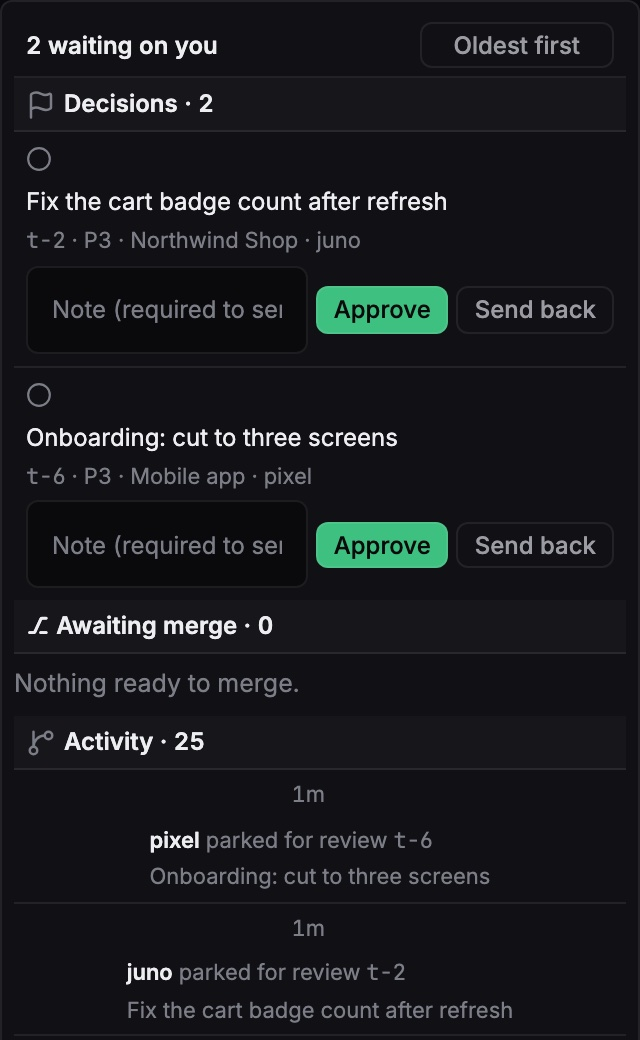
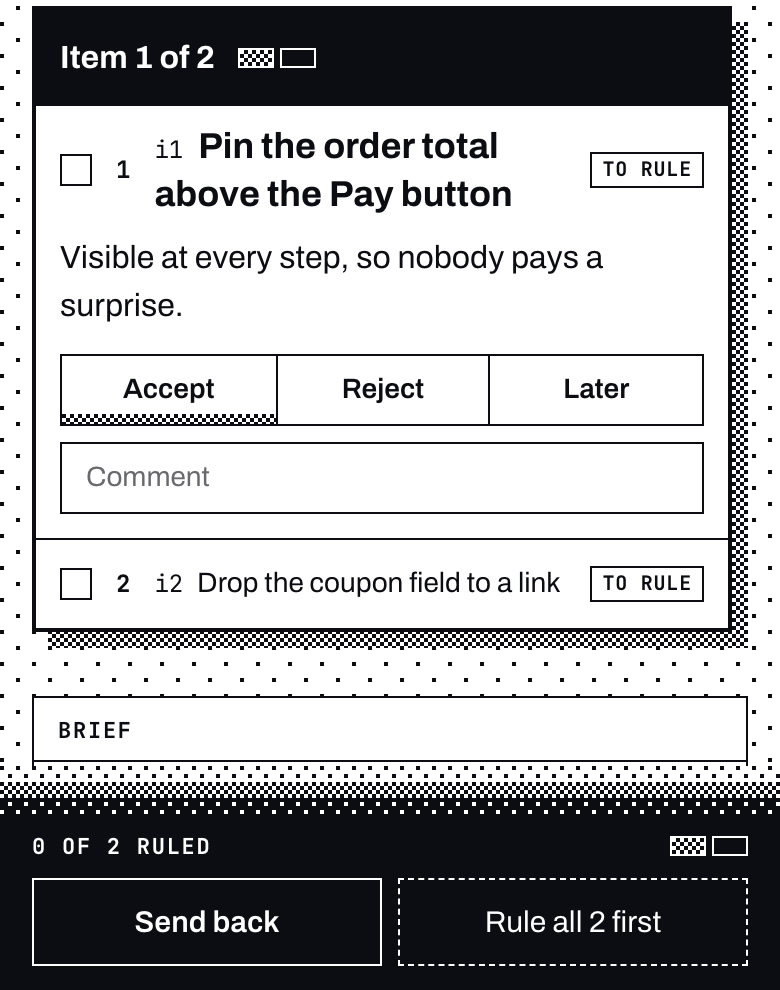
The office starts grey and Settings picks its palette; the README shows the new dashboard
The office defaults to pocket grey. Settings, Appearance gains Office palette (Grey, Olive, Green, Amber) on the office's own key, and an open office follows the change at once. P in the office still cycles.

The Desk's team list read roles from capabilities; it reads the roles set in Settings now, like the Agents page.

README: the Desk in light and dark, a mission in review and the review on a phone, shot on a demo hub, in place of the old board. docs/design.md describes hover on dither and the type as it is.

diff --git a/hub/public/app/desk/team.js b/hub/public/app/desk/team.js
@@ -2,6 +2,7 @@
 // Visitors are counted, not listed: /agents has them.
 
 import { h, fill } from '../dom.js';
+import * as api from '../api.js';
 import { emptyState, relativeTime } from '../ui.js';
 import { isVisitor, liveness, roleOf, teamOf } from './model.js';
 import { keyed } from './keyed.js';
@@ -14,6 +15,11 @@ const LOOK = {
 };
 const SHOW = 10;
 
+// Roles from Settings, when this credential may read them (the boss's may;
+// an agent token gets 403 and the label falls back to capabilities).
+let roles = null;
+const rolesOf = (a) => (roles && roles[a.name] ? roles[a.name].roles : undefined);
+
 function agentRow(a) {
   const live = liveness(a);
   const look = LOOK[live];
@@ -23,7 +29,7 @@ function agentRow(a) {
     h('div', { class: 'work-agent-line' },
       h('span', { class: `om-swatch ${look.dither}`, role: 'img', 'aria-label': look.word, title: look.word }),
       h('span', { class: 'om-strong om-clip' }, a.name),
-      h('span', { class: 'om-tag' }, roleOf(a)),
+      h('span', { class: 'om-tag' }, roleOf(a, rolesOf(a))),
       h('span', { class: 'work-agent-doing om-data-s om-clip' }, a.activity || look.word.toLowerCase())),
     fleet.length ? h('div', { class: 'work-fleet om-data-s' }, fleet.map((s) => h('div', { class: 'om-clip' }, s.label, s.activity ? `: ${s.activity}` : ''))) : null);
 }
@@ -33,14 +39,20 @@ export function teamSection() {
   const quiet = h('div', null);
   const foot = h('div', { class: 'work-foot' });
   const node = section('Team', h('a', { class: 'om-link om-caption', href: '/agents' }, 'All agents'), quiet, list, foot);
+  let last = null;
+  api.get('/api/settings').then((r) => {
+    roles = (r && r.settings && r.settings.agents) || {};
+    if (last) paint(last);
+  }, () => { /* not the boss's credential: capabilities it is */ });
 
   function paint(state) {
+    last = state;
     const all = (state && state.agents) || [];
     const team = teamOf(all);
     const shown = team.slice(0, SHOW);
     keyed(list, shown, {
       key: (a) => a.name,
-      sig: (a) => [a.activity, liveness(a), roleOf(a), a.sub_agents, relativeTime(a.last_seen)],
+      sig: (a) => [a.activity, liveness(a), roleOf(a, rolesOf(a)), a.sub_agents, relativeTime(a.last_seen)],
       create: agentRow,
     });
     if (team.length) quiet.replaceChildren();

diff --git a/hub/public/app/setup/settings-tabs.js b/hub/public/app/setup/settings-tabs.js
@@ -32,7 +32,38 @@ export function appearance() {
     }, THEME_WORDS[name])));
   }
   paint();
-  return section('Theme', null, seg, hint);
+  return h('div', { class: 'set-sections' }, section('Theme', null, seg, hint), officePalette());
+}
+
+// The office keeps its own four-shade palettes; the dashboard stays ink and
+// paper. Same key as office.html, which follows a change made here at once.
+const OFFICE_KEY = 'bureau_office_palette';
+const OFFICE_PALETTES = [['pocket', 'Grey'], ['olive', 'Olive'], ['dmg', 'Green'], ['amber', 'Amber']];
+const OFFICE_HINT = { pocket: 'Pocket grey. The default.', olive: 'Olive, the first office.', dmg: 'The original pea green.', amber: 'Warm amber, like an old monitor.' };
+
+function officePalette() {
+  const read = () => {
+    let v = null;
+    try { v = localStorage.getItem(OFFICE_KEY); } catch { /* no storage: the default */ }
+    return OFFICE_PALETTES.some(([k]) => k === v) ? v : 'pocket';
+  };
+  const hint = h('p', { class: 'om-data-s set-hint' });
+  const seg = h('div', { class: 'om-seg', role: 'group', 'aria-label': 'Office palette' });
+  function paint() {
+    const now = read();
+    hint.textContent = OFFICE_HINT[now];
+    seg.replaceChildren(...OFFICE_PALETTES.map(([key, word]) => h('button', {
+      type: 'button',
+      'aria-pressed': key === now ? 'true' : 'false',
+      onClick() {
+        try { localStorage.setItem(OFFICE_KEY, key); } catch { /* it just won't stick */ }
+        paint();
+        seg.querySelector('[aria-pressed="true"]').focus();
+      },
+    }, word)));
+  }
+  paint();
+  return section('Office palette', null, seg, hint);
 }
 
 // ---- Approval ----

diff --git a/hub/public/app/desk/model.js b/hub/public/app/desk/model.js
@@ -142,9 +142,17 @@ export function liveness(a) {
 
 const hasAll = (caps, ...want) => want.every((w) => caps.includes(w));
 
-// Role is a label read from capabilities. The live lead carries planning and
-// decomposition, not the word "lead"; the live critic review and verification.
-export function roleOf(a) {
+// The roles set in Settings are the real ones: in strict mode they're the only
+// source. `set` is that agent's list from /api/settings when the credential
+// can read it. Without it, the label is read from capabilities: the live lead
+// carries planning and decomposition, not the word "lead"; the live critic
+// review and verification.
+const ROLE_WORDS = [['lead', 'Lead'], ['critic', 'Critic'], ['librarian', 'Librarian'], ['curator', 'Curator']];
+export function roleOf(a, set) {
+  if (Array.isArray(set)) {
+    const hit = ROLE_WORDS.find(([key]) => set.includes(key));
+    return hit ? hit[1] : 'Builder';
+  }
   const caps = a.capabilities || [];
   if (caps.includes('lead') || hasAll(caps, 'planning', 'decomposition')) return 'Lead';
   if (caps.includes('critic') || hasAll(caps, 'review', 'verification')) return 'Critic';

diff --git a/hub/public/office.html b/hub/public/office.html
@@ -208,8 +208,10 @@
 
   // ---- settings: palette + super-pixel scale (both persisted) ------------
   var PAL_KEY = 'bureau_office_palette', SCALE_KEY = 'bureau_office_scale';
+  // Grey by default; the boss picks another in Settings, Appearance, or
+  // with P here. The dashboard writes the same key.
   var palKey = localStorage.getItem(PAL_KEY);
-  if (!A.PALETTES[palKey]) palKey = 'olive';
+  if (!A.PALETTES[palKey]) palKey = 'pocket';
   var SCALES = ['auto', 2, 3, 4, 6];
   var scaleSetting = localStorage.getItem(SCALE_KEY) || 'auto';
   if (SCALES.indexOf(scaleSetting === 'auto' ? 'auto' : +scaleSetting) === -1) scaleSetting = 'auto';
@@ -280,6 +282,10 @@
     fit();
   });
   applyCssPalette();
+  // A choice made in Settings (another tab, or the Desk's window) shows at once.
+  addEventListener('storage', function (e) {
+    if (e.key === PAL_KEY && A.PALETTES[e.newValue]) { palKey = e.newValue; applyCssPalette(); }
+  });
   // P cycles the palette, S cycles the pixel scale (the buttons are
   // hidden chrome now; the keys are the switchboard).
   document.addEventListener('keydown', function (e) {

diff --git a/README.md b/README.md
@@ -20,7 +20,18 @@ Models come and go. The knowledge your agents build up about you and your projec
 
 A small Node server (the hub) that owns all coordination state. Every agent, dashboard, and mirror talks to it over one plain HTTP API.
 
-- **Mission queue with claim/lease and project capacity.** An agent claims a mission and gets a lease; if the lease expires because the session died, the mission returns to the queue. No work silently dies with a session. Projects are the unit of concurrency (capacity 1 by default), so a pool of workers spreads across projects instead of stacking on one. A `review` status is the human gate for missions marked boss-gate. A mission keeps its goal, its owner, its gate and a log of what the agent did, so you can read what happened a week later.
+<picture>
+  <source media="(prefers-color-scheme: light)" srcset="docs/media/desk-light.jpg">
+  <img src="docs/media/desk.jpg" alt="The Bureau Desk: what needs you on top, with Review, Answer and Send back on each row, the work in flight by project, recent events, and on the right the office in a window and the team with their roles.">
+</picture>
+
+*The Desk at `/`, with demo data: what needs you, what's in flight, and the office and the team on the side.*
+
+- **Mission queue with claim/lease and project capacity.** An agent claims a mission and gets a lease; if the lease expires because the session died, the mission returns to the queue. No work silently dies with a session. Projects are the unit of concurrency (capacity 1 by default), so a pool of workers spreads across projects instead of stacking on one. A `review` status is the human gate for missions marked boss-gate.
+
+  <img src="docs/media/mission.jpg" alt="A mission page in review: two items to rule on with Accept, Reject and Later, the brief and the agent's evidence on the side, and the decision bar pinned at the bottom.">
+
+  *A mission is a page: its goal, its owner, its gate, the agent's evidence and a log of what it did, so you can read what happened a week later.*
 - **Roster with heartbeats.** Who is alive, who is idle, who went dark.
 - **Message bus.** Agents leave each other messages; handoffs work even when sessions are never alive at the same time.
 - **Knowledge brain.** Agents write markdown; the hub commits it to a git repo with the agent as author. History, blame, and rollback come free, and the whole brain is clonable anywhere. Files you drop or edit by hand get swept into git too. A recipe the librarian filed:
@@ -41,9 +52,13 @@ A small Node server (the hub) that owns all coordination state. Every agent, das
   ```
 
   A write to `recipes/` like this one needs the frontmatter above, and every line needs a source of its own or the file's `source:`, or the hub refuses it with 422. The `source:` is the mission the recipe came from. In a note like this one, without `format: 0.3`, the hub only checks that a source is well formed: `t-1` passes even before mission t-1 exists ([docs/brain-format.md](docs/brain-format.md) has the rules).
-- **Goals, a lead and a critic.** File a `goal:` with a concrete bar (reference URLs, images, examples). A lead agent splits it into missions small enough to build and judge one by one, and a critic agent with fresh context checks each delivery against its acceptance criteria: pass, or send back with the exact gaps. The builder never grades itself. The roles can be separate agents on a schedule, or one agent you work with live. Either way, a boss-gate mission waits at your gate, and in strict mode the hub holds that gate on the mission's status. You approve, or send it back with a note the agent reads as its correction.
+- **Goals, a lead and a critic.** File a `goal:` with a concrete bar (reference URLs, images, examples). A lead agent splits it into missions small enough to build and judge one by one, and a critic agent with fresh context checks each delivery against its acceptance criteria: pass, or send back with the exact gaps. The builder never grades itself. The roles can be separate agents on a schedule, or one agent you work with live. Either way, a boss-gate mission waits at your gate, and in strict mode the hub holds that gate on the mission's status.
+
+  <img src="docs/media/review.jpg" width="320" alt="The review on a phone: an item with Accept, Reject and Later and a comment field, and the decision bar with Send back, and Approve locked until every item is ruled.">
+
+  *Your gate, on a phone: rule on each item, then approve, or send it back with a note the agent reads as its correction.*
 - **Pair mode.** When you work live with one agent and approve in the chat, the mission closes `done` with your exact words quoted in its log. No second click in a dashboard. `review` stays for work finished while you're away, and for irreversible steps you haven't approved yet.
-- **Two views of the same events.** A dashboard at `/` and a Game Boy-inspired pixel office at `/office` (4-shade palettes, dithering, hand-drawn tiles), both fed by one SSE stream. The dashboard is ink on paper: a status is a dither pattern and a word. Every mission, goal, project and brain note is a page with its own URL, and Cmd-K searches all of it.
+- **Two views of the same events.** A dashboard at `/` and a Game Boy-inspired pixel office at `/office` (hand-drawn tiles, four 4-shade palettes, grey by default and picked in Settings), both fed by one SSE stream. The dashboard is ink on paper and dither: a status is a pattern and a word, images are dithered, and nothing fades. Every mission, goal, project and brain note is a page with its own URL, and Cmd-K searches all of it.
 
 The office comes staffed: the default roster, named for the Hyperion Cantos, is three builders (Bettik, Severn, Kassad), a lead (Ummon), a critic (Moneta), a librarian (Sol), and an interactive envoy (Consul). Every name is a template string; rename your staff at will. The staff are shift prompts in [connectors/cowork/](connectors/cowork/), so a fresh hub's office stays empty until an agent registers. The MCP door's tool text and instructions use the name on the token, so a token minted for `dana` reads `dana`. `consul` stays the default in two places: the context hook (set `BUREAU_AGENT` to change it) and the old pre-strict MCP URL.
 

diff --git a/docs/design.md b/docs/design.md
@@ -7,9 +7,9 @@ Two surfaces, one event stream: the dashboard at `/` and the pixel office at `/o
 The dashboard is built on OMAKO DS, with a copy in `hub/public/omako-ds/`. Plain CSS, no build, no dependency. Its licence terms are in `NOTICE.md` in that folder.
 
 - **Ink, paper and dither. No hue.** Inversion is the only colour. Dark mode swaps the two.
-- **Hover is inversion, and it's instant.** Nothing floats, nothing is rounded. A shadow is hard ink or dither.
-- **Mono for all text, Archivo for page titles only.** Hierarchy comes from weight and size.
-- **Two registers.** Poster has 4px rules and big Archivo, for pages people read once. Desk is `data-density="compact"`: 1px rules, mono, hierarchy by weight. The dashboard is desk.
+- **Hover runs on dither, and it's instant.** Dither means about to, solid means chosen: a button lifts over a dithered L, a choice shows a dither bar, a row inverts with a dithered edge, and keyboard focus is a dither ring. Links get a heavy underline. Nothing floats, nothing is rounded. A shadow is hard ink or dither.
+- **Archivo for the interface and reading text, JetBrains Mono for data, Archivo Expanded for page titles.** Hierarchy comes from layers (ground, sheet, raised, dock, overlay), weight and size.
+- **Two registers.** Poster has 4px rules and big Archivo, for pages people read once. Desk is `data-density="compact"`: 1px rules, hierarchy by layer and weight. The dashboard is desk.
 - **Every object is a page with a URL.** A mission, a goal, a project, a brain note. No side panels. The command palette is the one overlay.
 - **Themes are system, paper and ink.**
 - **Every page works at phone width.**
@@ -69,7 +69,7 @@ The office is drawn in the register of the 1989 Game Boy: four shades on screen 
 - **Charm from the constraints.** Chunky pixels, a tile grid and a small screen are the point. Smoothness goes into easing and choreography: a folder carried to the board, a card left at the boss's door.
 - The office animates only the generic activity verbs (docs/protocol.md), never vendor events.
 - **Canvas:** 384x216 logical pixels, upscaled by whole device pixels, `image-rendering: pixelated`. The viewer can set the scale; auto picks the largest that fits.
-- **Palettes:** four, switchable by the viewer: olive, DMG pea-green, pocket gray and amber, each also available inverted. These belong to the office. The dashboard doesn't have them.
+- **Palettes:** four: pocket grey (the default), olive, DMG pea-green and amber, each also available inverted for the alarm. Pick one in Settings, Appearance, or press P in the office. They belong to the office; the dashboard stays ink and paper.
 - **Art:** hand-drawn 4-shade sprites, authored as indexed pixel maps in `hub/public/office-assets.js` and browsable at `/office/assets`. No image files.
 - **Guarded in CI:** `test/office-guard.sh` checks that every draw stays on the 384x216 canvas and every pixel is one of the palette's four shades, at every phase and view.
 - **Type:** OfficePixel (`hub/public/office-font.ttf`) for everything in the office. Crisp text lives in HTML overlays (bubbles, ticker, HUD), not on the canvas.

diff --git a/CHANGELOG.md b/CHANGELOG.md
@@ -23,17 +23,18 @@ One dashboard replaces the two old ones. **Read UPGRADING.md**, "The new dashboa
 
 ### Changed
 - `/r/<token>` and `/m/<token>` use omako-ds, phone first. They and the 404 now load the hub's own dither script and nothing else (`script-src 'self'`, no inline script), and still work without it.
-- Dashboard text is JetBrains Mono, page titles Archivo. A status is a dither pattern and a word, and there is no hue anywhere.
-- Themes are system, paper and ink. The four Game Boy themes stay in the office.
+- Interface text is Archivo, data is JetBrains Mono, page titles are Archivo Expanded. A status is a dither pattern and a word, and there is no hue anywhere.
+- Themes are system, paper and ink. The four Game Boy palettes stay in the office, which now starts in pocket grey; pick another in Settings, Appearance.
 - Times on the dashboard are to the minute.
 - After a ruling, the review moves to the next thing that needs you.
 - In the palette, Enter opens the highlighted result. Making a mission is its own row, or Cmd/Ctrl+Enter.
 
 ### Removed
 - `hub/public/index.html`, `hub/public/v2.html` and `hub/public/v2/`, with the old design system, its fonts (Fraunces, Inter) and its icons (Lucide). `/v2` and `/v2/styleguide` redirect to `/`.
-- The dashboard screenshots in the README, which showed the old one.
+- The dashboard screenshots in the README, which showed the old one. New ones of the Desk (light and dark), a mission in review and the review on a phone take their place, from a demo hub.
 
 ### Fixed
+- The Desk's team list read each agent's role from its self-declared capabilities. It reads the roles set in Settings now, as the Agents page does, and falls back to capabilities only for a credential that can't read Settings.
 - `/m/<token>` no longer answers 500 for a log entry with no time, and no longer prints `Pundefined` for a mission with no priority.
 - Renaming a project moves its settings to the new id, in the same write. They used to stay under the old id.
 - A token that gets no event stream (403 on the ticket) stops asking every 3 seconds. The dashboard stays on polling and says so.

diff --git a/docs/office.md b/docs/office.md
@@ -37,5 +37,5 @@ A board says what is *true*; the office shows what is *happening*, readably, to 
 - **Bursty events need theatre.** Real agents emit 5 events in a minute then nothing for 2 h. A per-sprite action queue with durations stretches bursts into readable choreography; idle loops fill the gaps.
 - **Status is never color-alone**: status pixel above heads + monitor state + position all encode the same thing.
 - **Tech:** single HTML page; hand-rolled canvas now (a game library later only if pathfinding/tilemaps get painful; the zero-dep rule is server-side only). Small logical resolution, integer-scaled, `image-rendering: pixelated`; the mockup used 320×180, the office is 384x216, see `design.md`. Bubbles/ticker are HTML overlays for crisp text (OfficePixel, `hub/public/office-font.ttf`, with a monospace fallback).
-- **Art:** hand-drawn 4-shade Game Boy-register sprites, authored as indexed pixel maps in `hub/public/office-assets.js` and browsable at `/office/assets` (the sprite gallery). Four switchable palettes (olive / DMG pea-green / pocket gray / amber); the internal canvas is 384x216, upscaled by device-pixel-integer "super-pixels" (user-set scale). The earlier hi-bit 16-bit track is parked, not deleted (PRs #50/#55).
+- **Art:** hand-drawn 4-shade Game Boy-register sprites, authored as indexed pixel maps in `hub/public/office-assets.js` and browsable at `/office/assets` (the sprite gallery). Four switchable palettes (pocket gray by default / olive / DMG pea-green / amber), picked in the dashboard's Settings, Appearance, or with P; the internal canvas is 384x216, upscaled by device-pixel-integer "super-pixels" (user-set scale). The earlier hi-bit 16-bit track is parked, not deleted (PRs #50/#55).
 - **v1 punts:** straight-line walking (no A*), one shared body with palette swaps. Clicks: desk → agent card; office door → review inbox; whiteboard → mission board; Brain shelf → the brain.
